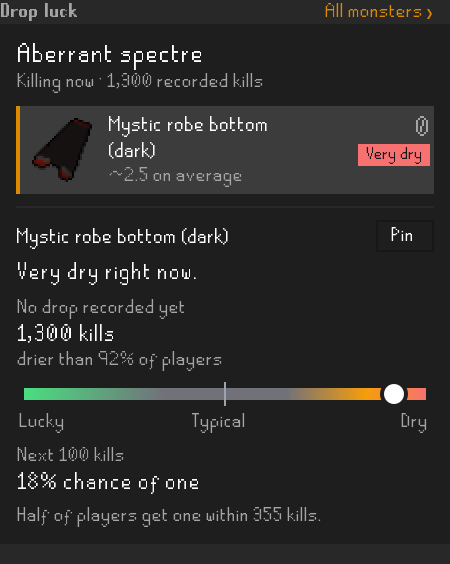
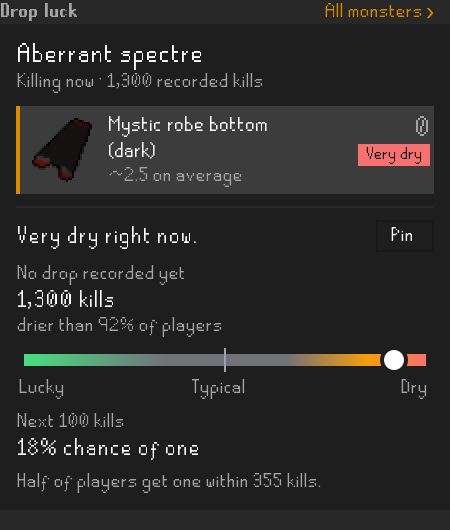
Name the drop once on Drop luck's card
The selected drop's row names it and wears the orange edge, and the detail under the rule named it a
second time as a heading over its verdict: "Mystic robe bottom (dark)" twice in four lines. The
detail now opens on the verdict, with Pin beside it, and the card is 17px shorter at the
sidebar's width.

The row's own Very dry chip stays. With several drops listed it is what a player scans before
choosing one, and the verdict below is the sentence for the one chosen. The test that checked
which drop opened by reading its heading now reads the detail only that drop can have, and counts
the name once.

Claude-Session: https://claude.ai/code/session_012PeGNrKe3mR9Lru1tgG4dU

diff --git a/src/main/java/com/pbolduc/mapcompanion/DropLuckPanel.java b/src/main/java/com/pbolduc/mapcompanion/DropLuckPanel.java
@@ -413,10 +413,16 @@ final class DropLuckPanel extends JPanel
 			}
 			invalidateAndRefresh();
 		});
-		card.add(MapCompanionPanel.fill(MapCompanionPanel.bar(0, ColorScheme.DARKER_GRAY_COLOR, label(drop.item, 12f, Color.WHITE),
-			null, pin), ColorScheme.DARKER_GRAY_COLOR));
-		card.add(gap(3, ColorScheme.DARKER_GRAY_COLOR));
-		card.add(wrapped(detail.verdict, TEXT_WIDTH, 13f, Color.WHITE));
+		/*
+		 * The verdict leads, with Pin beside it. The selected row above already names the drop and wears
+		 * the orange edge, so a heading naming it again under the rule was the same words twice.
+		 */
+		JPanel pinAtTop = new JPanel(new BorderLayout());
+		pinAtTop.setBackground(ColorScheme.DARKER_GRAY_COLOR);
+		pinAtTop.add(pin, BorderLayout.NORTH);
+		card.add(MapCompanionPanel.fill(MapCompanionPanel.bar(6, ColorScheme.DARKER_GRAY_COLOR, null,
+			wrapped(detail.verdict, TEXT_WIDTH - pin.getPreferredSize().width - 6, 13f, Color.WHITE), pinAtTop),
+			ColorScheme.DARKER_GRAY_COLOR));
 		card.add(gap(5, ColorScheme.DARKER_GRAY_COLOR));
 		card.add(wrapped(detail.sinceLabel, TEXT_WIDTH, 11f, ColorScheme.LIGHT_GRAY_COLOR));
 		/* Two labels, not one with a <font size>: a size change in markup leaves RuneLite's font and its "·". */

diff --git a/src/test/java/com/pbolduc/mapcompanion/DropLuckPanelTest.java b/src/test/java/com/pbolduc/mapcompanion/DropLuckPanelTest.java
@@ -92,7 +92,13 @@ public class DropLuckPanelTest
 		assertTrue(words, words.contains("Abyssal demon"));
 		assertTrue(words, words.contains("Killing now · 2 recorded kills"));
 		assertTrue(words, words.contains("All monsters ›"));
-		assertTrue("the common drop is the one opened, not the 1 in 32,000", words.contains("Abyssal whip | Pin"));
+		/*
+		 * The opened drop is the whip, the common one, not the 1 in 32,000: only it has dropped, so
+		 * only its detail can count kills since the last one. The detail leads with its verdict and
+		 * Pin, and does not name the drop again under the row that already does.
+		 */
+		assertTrue(words, words.contains("Lucky overall, fine right now. | Pin | Since last drop | 1 kill"));
+		assertEquals(words, 1, words.split("Abyssal whip", -1).length - 1);
 		assertTrue(words, words.contains("Since last drop"));
 		assertTrue(words, words.contains("1 kill | >99% of players would still be waiting too"));
 		assertTrue(words, words.contains("Pin"));

diff --git a/docs/review-evidence/readme-2026-11-02.md b/docs/review-evidence/readme-2026-11-02.md
@@ -36,7 +36,7 @@ No request leaves the machine: the map address is a port nothing listens on.
 | `sidebar-farm-run.png` | `farm-count`, the card alone | 225×309 |
 | `sidebar-group.png` | `group` | 225×565 |
 | `stars-tab-list.png` | `stars-route` | 225×633 |
-| `sidebar-drop-luck.png` | `dropluck-card`, the section alone | 225×282 |
+| `sidebar-drop-luck.png` | `dropluck-card`, the section alone | 225×265 |
 | `sidebar-slayer.png` | `slayer-card`, the card alone | 225×179 |
 | `sidebar-settings.png` | `settings-closed` | 225×335 |
 | `sidebar-port-tasks.png` | `port-run`, the card alone | 225×442 |
@@ -101,3 +101,12 @@ suites. `readme-phone-preview.mjs`
 loaded all twelve pictures at 320, 390 and 736px in both themes, with no horizontal overflow and every
 internal link resolved; its HTML came from a local conversion of the README's Markdown rather than
 GitHub's renderer, so the check made no request.
+
+## Painted again, 4 November 2026
+
+Three surfaces said a thing twice or spent a row on one button, and the pictures that show them were
+painted again from the same scenes, on the same renderer, after each change:
+
+- **`sidebar-drop-luck.png`.** The detail under the selected drop no longer names the drop again over
+  its verdict; *Very dry right now.* leads, with **Pin** beside it. 282px became 265.
+
